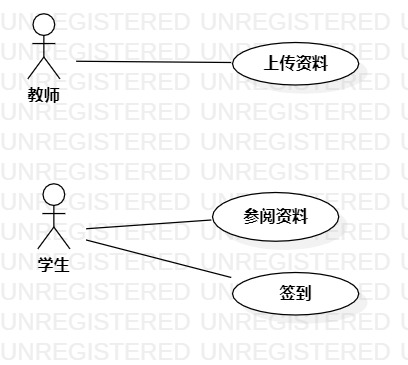
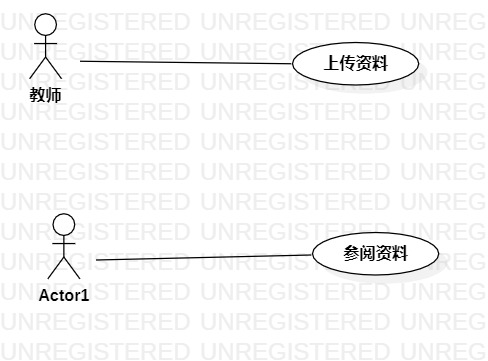
#2 #155 实验二:用例建模

diff --git a/students/1706081301317/lab2.md b/students/1706081301317/lab2.md
@@ -11,10 +11,40 @@
 
 ### 实验步骤
 > 1. 选题
-> 2. 根据题目创建用例图
-> 3. 书写实验报告
-> 4. 提交报告和用例图
+> 2. 创建用例图
+> 3. 根据功能建议用例
+> 4. 书写报告 
 
 ### 实验结果
 
 ![用例图](./lab2.jpg)
+
+### 用例规约的编写
+
+#### 表1：教师上传资料用例1规约  
+
+ 用例编号  | UC01 | 备注  
+-|:-|-  
+用例名称  | 教师上传资料  |   
+前置条件  | 教师已登录     |   
+后置条件  |      | *可选*   
+基本流程  | 1.教师进入班级群 |  
+~| 2.点击上传资料按钮 |   
+~| 3.显示选择文件的界面 |   
+~| 4.教师选择资料并上传   |   
+~| 5.系统显示“上传成功”。   |  
+扩展流程  | 4.1 上传时网速慢导致失败，系统显示请重新上传 |  *用例执行失败*    
+
+#### 表2：学生参阅资料用例2规约  
+
+ 用例编号  | UC02 | 备注  
+-|:-|-  
+用例名称  | 学生参阅资料  |   
+前置条件  | 学生已登录     |   
+后置条件  |      | *可选*   
+基本流程  | 1.学生进入班级群 |  
+~| 2.点击资料按钮 |   
+~| 3.显示全部资料的界面 |   
+~| 4.点击查看资料  |   
+~| 5.系统显示资料详情。   |  
+扩展流程  | 3.1 教师未上传资料，界面显示暂无资料 |  
